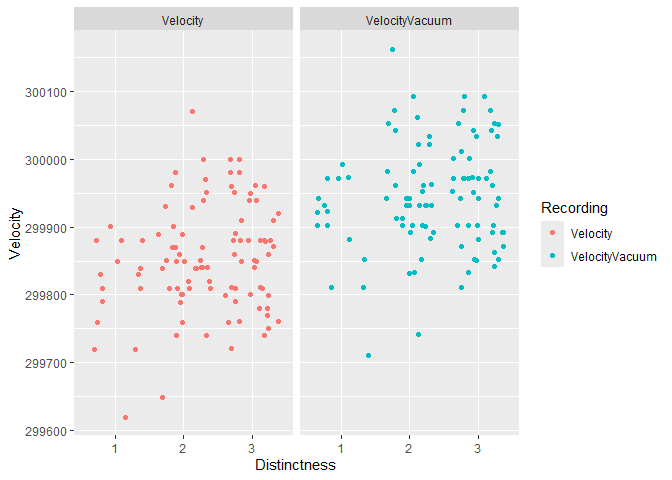
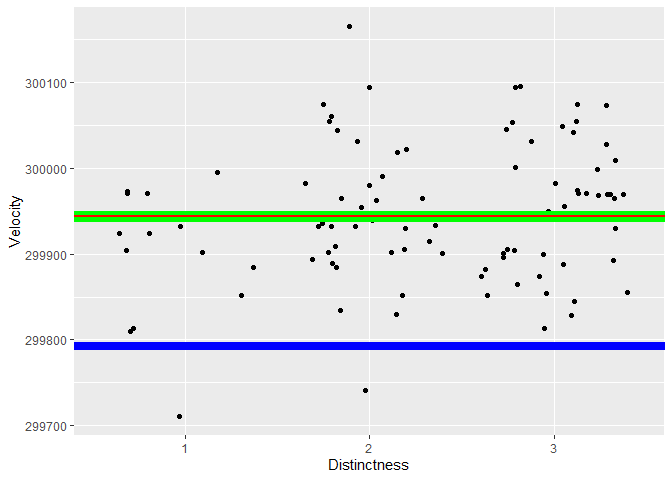
Resubmission for Challenge 2

diff --git a/challenges/c02-michelson-assignment.md b/challenges/c02-michelson-assignment.md
@@ -157,14 +157,18 @@ df_q1 %>%
 | 2            |  39 |     299858.5 |
 | 1            |  15 |     299808.0 |
 
-**Observations**: - Write your observations here! - One, I can see that
-the format in general is different, is in the table that I made is dark
-and Im not sure how to make it another way. Second, I notice that the
-values for the mean velocity are in decimal points, as where in the
-table that I was tasked to recreate are whole number. - Why might your
-table differ from Michelson’s? - As I mentioned above the main
-difference is that of the data being in decimal points, this likely
-being because of the finding mean process.
+**Observations**: - Write your observations here!
+
+One, I can see that the format in general is different, is in the table
+that I made is dark and Im not sure how to make it another way. Second,
+I notice that the values for the mean velocity are in decimal points, as
+where in the table that I was tasked to recreate are whole number.
+
+\- Why might your table differ from Michelson’s?
+
+As I mentioned above the main difference is that of the data being in
+decimal points, this is likely due to the fact that the table that I was
+trying to recreate was rounded to the nearest whole number.
 
 The `Velocity` values in the dataset are the speed of light *in air*;
 Michelson introduced a couple of adjustments to estimate the speed of
@@ -228,51 +232,36 @@ human judgment.\[2\]
 ## TODO: Compare Michelson's estimate and error against the true value
 true_error = LIGHTSPEED_VACUUM - LIGHTSPEED_MICHELSON
 
-val_plus = LIGHTSPEED_MICHELSON + LIGHTSPEED_PM
-
-val_minus = LIGHTSPEED_MICHELSON - LIGHTSPEED_PM
-
-
-error_plus = LIGHTSPEED_VACUUM - val_plus
-
-error_minus = LIGHTSPEED_VACUUM - val_minus
-
-
-abs(true_error) > abs(error_minus)
+abs(LIGHTSPEED_PM) < abs(true_error)
 ```
 
     ## [1] TRUE
 
 ``` r
-abs(true_error) < abs(error_minus)
+abs(LIGHTSPEED_PM) - abs(true_error)
 ```
 
-    ## [1] FALSE
+    ## [1] -100.542
 
 ``` r
-abs(true_error) > abs(error_plus)
+true_error
 ```
 
-    ## [1] FALSE
-
-``` r
-abs(true_error) < abs(error_plus)
-```
-
-    ## [1] TRUE
+    ## [1] -151.542
 
 **Observations**: - Is Michelson’s estimate of the error (his
-uncertainty) greater or less than the true error? - When the estimate
-was added, it was greater, when subtracted,it was less.
+uncertainty) greater or less than the true error?
+
+- In terms of magnitude, Michelson’s estimate of error was less that the
+  magnitude of the true error.
 
 - Make a quantitative comparison between Michelson’s uncertainty and his
   error.
 
-  - When I looked at of it was greater or or not, I looked at both
-    whether or not the range, + or -, made any of the difference. It
-    turns out that the error when subtracting the estimate that he made,
-    comes out to be less than the true error When adding the estimate,
-    the error comes out to be greater than the true error.
+When taking the absolute value of Michelson’s estimate of error, and the
+absolute value of the true error, I found that the error that
+Michelson’s estimate was less that that of the true value in magnitude.
+.
 
 The following plot shows all of Michelson’s data as a [control
 chart](https://en.wikipedia.org/wiki/Control_chart); this sort of plot
@@ -367,46 +356,112 @@ median lines and the positions in which the data is on the chart.
 
 ``` r
 df_plot <- df_q2 %>%
-  select(Distinctness, VelocityVacuum, Velocity) %>%
-  pivot_longer(cols = c(VelocityVacuum, Velocity), names_to = "Recording", values_to = "Velocity")
+  select(Distinctness, VelocityVacuum) %>%
+  pivot_longer(cols = c(VelocityVacuum), values_to = "Velocity")
+
+mean_velocity <- df_q2 %>%
+  summarise(mean_val = mean(VelocityVacuum)) %>%
+  pull(mean_val)
 
 ggplot(df_plot, aes(x = Distinctness, y = Velocity)) +
-  geom_jitter(aes(color = Recording)) +  
-  facet_wrap(~Recording)
+  geom_jitter() +
+  geom_abline(slope = 0, intercept = mean_velocity, col = "Green", size = 4) +
+  geom_abline(slope = 0, intercept = LIGHTSPEED_VACUUM, col = "blue", size = 3) +
+  geom_abline(slope = 0, intercept = LIGHTSPEED_MICHELSON, col = "red", size = 1) 
 ```
 
+    ## Warning: Using `size` aesthetic for lines was deprecated in ggplot2 3.4.0.
+    ## ℹ Please use `linewidth` instead.
+    ## This warning is displayed once every 8 hours.
+    ## Call `lifecycle::last_lifecycle_warnings()` to see where this warning was
+    ## generated.
+
 ![](c02-michelson-assignment_files/figure-gfm/unnamed-chunk-2-1.png)<!-- -->
+
 **Observations**:
 
-- For this plot in particular, I noticed that the data for
-  VelocityVacuum is much higher than that of the Velocity Data. I also
-  noticed that there doesn’t seem to be a direct correlation, and what I
-  mean by that is that it isn’t like it was just “scaled” by a cretin
-  value but it seems that the points for VelocityVacuum don’t really
-  sharer the same positions as the Vacuum data, but are still much
-  higher Velocity.
+- Here I have a “jitter” plot of Velocity Vacuum vs Distinctness. I have
+  also included horizontal lines that describe the following:
+  - BLUE LINE —– Exact Speed of light in a Vacuum
+  - RED LINE —– Mean Value of Michelson’s Speed of light in a Vacuum
+    Data
+  - GREEN LINE —– Michelson’s Speed of light in a Vacuum
+- After taking the mean of the data that Michelson represented by the
+  (RED LINE), we can see that it is very similar to Michelson Speed of
+  light value (GREEN LINE). When we compare these two lines to that of
+  the Exact Speed of light value (BLUE LINE) we can see that they are in
+  two different places suggesting that they are different in value. This
+  raises the question on why this value might be different, my
+  suggestion (and understanding after doing some research as well) is
+  that their might have been some wrong with the way that Michleson
+  actually recorded his data , causing his data overall to be different
+  then that of the modern day recording of the data.
 
 ``` r
 df_plot <- df_q2 %>%
-  select(Temp, VelocityVacuum, Velocity) %>%
-  pivot_longer(cols = c(VelocityVacuum, Velocity), names_to = "Recording", values_to = "Velocity")
+  select(Temp, VelocityVacuum) %>%
+  pivot_longer(cols = c(VelocityVacuum), values_to = "Velocity")
 
 ggplot(df_plot, aes(x = Temp, y = Velocity)) +
-  geom_jitter(aes(color = Recording)) +  
-  facet_wrap(~Recording)
+  geom_col()
 ```
 
 ![](c02-michelson-assignment_files/figure-gfm/unnamed-chunk-3-1.png)<!-- -->
-**Observations**: - Still have yet to finish, will resubmit
+
+**Observations**:
+
+- In this graph, I have VelocityVacuum vs Temperature in a Column Chart.
+  As you can see, we have some clear distinction between the lower
+  temperatures and the higher temperatures, this coming from the fact
+  that in the higher temperature range we see higher VelocityVacuum
+  values. From my intent in trying to interpret this , I suggest that
+  the warmer temperature allowed for better day conditions, this then
+  allowing for the collection of the data to be significantly easier(
+  which could have an effect on the overall test data he recorded,
+  causing a difference in the true light speed and Michelsons estimate).
+  In the reading thatw as optional for his experiment , it was described
+  that in his initial experiment , he utilized sun rays, further
+  solidifying why the sun/temperature might have played a part in this
+  Phenomenon.
+
+``` r
+df_plot <- df_q2 %>%
+  select(Date, VelocityVacuum) %>%
+  pivot_longer(cols = c(VelocityVacuum), values_to = "Velocity")
+
+ggplot(df_plot, aes(x = Date, y = Velocity)) +
+  geom_smooth()
+```
+
+    ## `geom_smooth()` using method = 'loess' and formula = 'y ~ x'
+
+![](c02-michelson-assignment_files/figure-gfm/unnamed-chunk-4-1.png)<!-- -->
+
+**Observations**:
+
+- Here I have a visualization of the relationship between the Velocity
+  Vacuum and the Data that the data points were recorded. As we move
+  from the beginning of June to the end of June, we can see this
+  decline/decrease in the recorded value of Velocity Vacuum. This can
+  likely be explained by the location of where he initially recorded his
+  data, The United States Naval Academy in Maryland. Typically in June,
+  marks the time where summer begins in the northern hemisphere ,
+  meaning that temperatures rise due to higher intensity of the Suns
+  Rays. As the experiment reading describes the fact that the Suns Rays
+  we initially used as a light sources for the experiment, and the suns
+  intensity started picking up during this , this may explain why we see
+  a higher variability in the earlier stages in the month, and then
+  being to stay at more of a steady range at the end of the month due to
+  more of a concentration of the Suns rays.
 
 ## Bibliography
 
 - \[1\] Michelson, [Experimental Determination of the Velocity of
   Light](https://play.google.com/books/reader?id=343nAAAAMAAJ&hl=en&pg=GBS.PA115)
-  (1880)
+  1880) 
 - \[2\] Henrion and Fischhoff, [Assessing Uncertainty in Physical
   Constants](https://www.cmu.edu/epp/people/faculty/research/Fischoff-Henrion-Assessing%20uncertainty%20in%20physical%20constants.pdf)
-  (1986)
+  1986) 
 - \[3\] BYU video about a [Fizeau-Foucault
   apparatus](https://www.youtube.com/watch?v=Ik5ORaaeaME), similar to
   what Michelson used.
